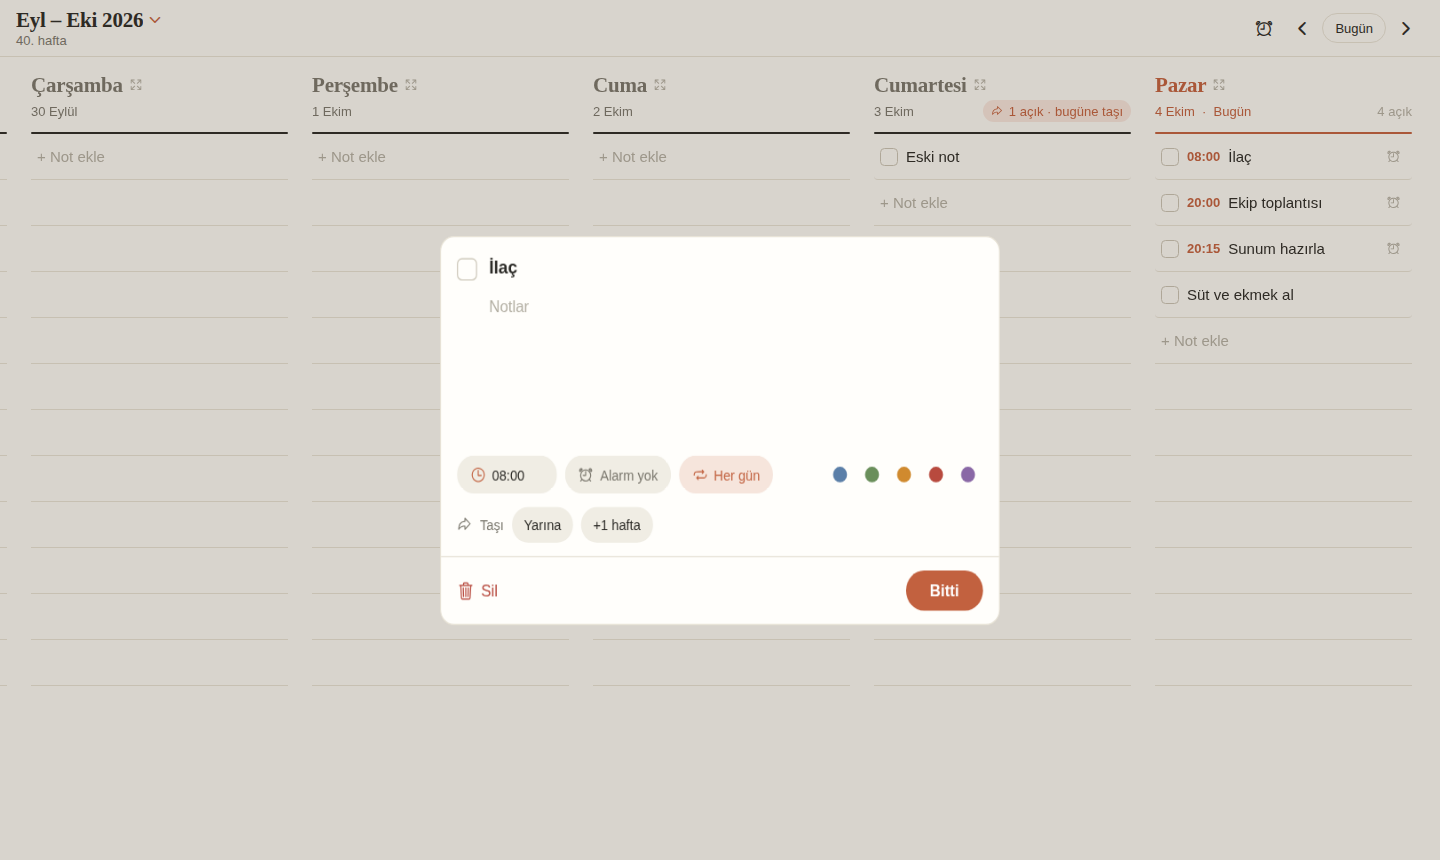
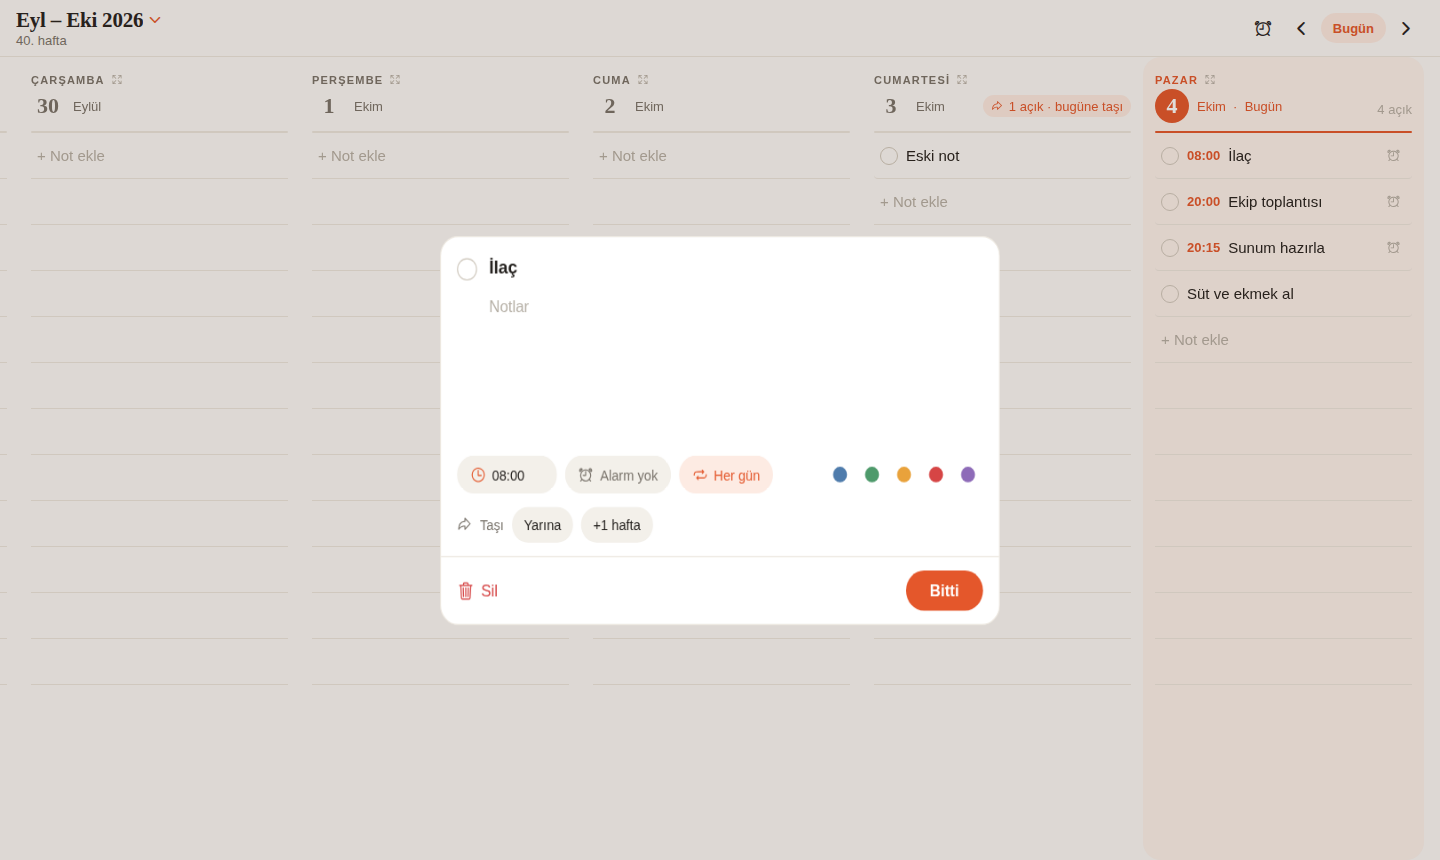
Daha şık tasarım: canlı turuncu palet, gün numaralı sütun başlığı, bugün paneli, yuvarlak kutucuk; gün çizelgesinde çizgi/saat çakışması düzeltildi
Claude-Session: https://claude.ai/code/session_01JXMiv5nUjHe3kdQpGL5PpH

diff --git a/src/components/DayColumn.tsx b/src/components/DayColumn.tsx
@@ -52,44 +52,55 @@ export default function DayColumn({
   };
 
   return (
-    <View style={[styles.column, { width }]}>
+    <View style={[styles.column, { width }, isToday && { backgroundColor: c.accentSoft + '80' }]}>
       <View style={styles.header}>
-        <Pressable
-          onPress={() => showDay(date)}
-          accessibilityRole="button"
-          accessibilityLabel={`${formatWeekday(date)} gününü aç`}
-          style={({ pressed }) => [pressed && { opacity: 0.6 }]}
-        >
-          <View style={styles.titleRow}>
-            <Text style={[Type.title, { color: isToday ? c.accent : isPast ? c.textMuted : c.text }]}>
-              {formatWeekday(date)}
-            </Text>
-            <Ionicons name="expand-outline" size={14} color={c.textFaint} />
+        <View style={styles.headRow}>
+          <Pressable
+            onPress={() => showDay(date)}
+            accessibilityRole="button"
+            accessibilityLabel={`${formatWeekday(date)} gününü aç`}
+            style={({ pressed }) => [styles.headLeft, pressed && { opacity: 0.6 }]}
+          >
+            <View style={styles.titleRow}>
+              <Text style={[Type.micro, styles.weekday, { color: isToday ? c.accent : c.textMuted }]}>
+                {formatWeekday(date).toLocaleUpperCase('tr-TR')}
+              </Text>
+              <Ionicons name="expand-outline" size={12} color={c.textFaint} />
+            </View>
+            <View style={styles.numRow}>
+              <View style={[styles.num, isToday && { backgroundColor: c.accent }]}>
+                <Text style={[Type.dayNumber, { color: isToday ? c.onAccent : isPast ? c.textMuted : c.text }]}>
+                  {d.getDate()}
+                </Text>
+              </View>
+              <Text style={[Type.caption, { color: isToday ? c.accent : c.textMuted }]}>
+                {TR_MONTHS[d.getMonth()]}
+                {isToday ? '  ·  Bugün' : ''}
+              </Text>
+            </View>
+          </Pressable>
+          <View style={styles.headRight}>
+            {isPast && open > 0 ? (
+              <Pressable
+                onPress={() => carryOver(date)}
+                hitSlop={6}
+                accessibilityRole="button"
+                accessibilityLabel={`${formatWeekday(date)} günündeki ${open} açık notu bugüne taşı`}
+                style={[styles.carry, { backgroundColor: c.accentSoft }]}
+              >
+                <Ionicons name="arrow-redo-outline" size={12} color={c.accent} />
+                <Text style={[Type.caption, { color: c.accent }]}>{open} açık · bugüne taşı</Text>
+              </Pressable>
+            ) : (
+              notes.length > 0 && (
+                <Text style={[Type.caption, { color: c.textFaint }]}>
+                  {open === 0 ? 'Hepsi bitti' : `${open} açık`}
+                </Text>
+              )
+            )}
           </View>
-        </Pressable>
-        <View style={styles.subRow}>
-          <Text style={[Type.caption, { color: isToday ? c.accent : c.textMuted }]}>
-            {d.getDate()} {TR_MONTHS[d.getMonth()]}
-            {isToday ? '  ·  Bugün' : ''}
-          </Text>
-          {isPast && open > 0 ? (
-            <Pressable
-              onPress={() => carryOver(date)}
-              hitSlop={6}
-              accessibilityRole="button"
-              accessibilityLabel={`${formatWeekday(date)} günündeki ${open} açık notu bugüne taşı`}
-              style={[styles.carry, { backgroundColor: c.accentSoft }]}
-            >
-              <Ionicons name="arrow-redo-outline" size={12} color={c.accent} />
-              <Text style={[Type.caption, { color: c.accent }]}>{open} açık · bugüne taşı</Text>
-            </Pressable>
-          ) : (
-            notes.length > 0 && (
-              <Text style={[Type.caption, { color: c.textFaint }]}>{open === 0 ? 'Hepsi bitti' : `${open} açık`}</Text>
-            )
-          )}
         </View>
-        <View style={[styles.headerRule, { backgroundColor: isToday ? c.accent : c.text }]} />
+        <View style={[styles.headerRule, { backgroundColor: isToday ? c.accent : c.separator }]} />
       </View>
 
       <ScrollView style={styles.flex} keyboardShouldPersistTaps="handled" showsVerticalScrollIndicator={false}>
@@ -189,8 +200,21 @@ export function TaskLine({ note, onOpen }: { note: EntryWithDate; onOpen: (alarm
 
 const styles = StyleSheet.create({
   flex: { flex: 1 },
-  column: { flex: 1, paddingHorizontal: Space.md },
-  header: { paddingTop: Space.lg, gap: 2 },
+  column: { flex: 1, paddingHorizontal: Space.md, borderRadius: Radius.lg },
+  header: { paddingTop: Space.md },
+  headRow: { flexDirection: 'row', alignItems: 'flex-end', justifyContent: 'space-between', minHeight: 54 },
+  headLeft: { gap: 2 },
+  headRight: { paddingBottom: 6 },
+  weekday: { letterSpacing: 1.2 },
+  numRow: { flexDirection: 'row', alignItems: 'center', gap: Space.sm },
+  num: {
+    minWidth: 34,
+    height: 34,
+    borderRadius: 17,
+    paddingHorizontal: 6,
+    alignItems: 'center',
+    justifyContent: 'center',
+  },
   titleRow: { flexDirection: 'row', alignItems: 'center', gap: 6 },
   carry: {
     flexDirection: 'row',
@@ -200,7 +224,6 @@ const styles = StyleSheet.create({
     height: 22,
     borderRadius: Radius.pill,
   },
-  subRow: { flexDirection: 'row', justifyContent: 'space-between', alignItems: 'center', minHeight: 22 },
   headerRule: { height: 2, marginTop: Space.sm, borderRadius: 1 },
   line: {
     height: LINE_HEIGHT,

diff --git a/src/constants/theme.ts b/src/constants/theme.ts
@@ -26,51 +26,51 @@ export interface Palette {
 
 export const LightPalette: Palette = {
   scheme: 'light',
-  bg: '#FAF9F5',
-  sidebar: '#F0EEE6',
-  card: '#FFFEFB',
-  fill: '#F0EDE4',
-  text: '#2B2A26',
-  textMuted: '#7A776D',
-  textFaint: '#B3AFA3',
-  separator: '#E6E1D4',
-  accent: '#C2613F',
-  accentSoft: '#F6E5DC',
+  bg: '#FCFBF9',
+  sidebar: '#F4F1EC',
+  card: '#FFFFFF',
+  fill: '#F3F0EA',
+  text: '#24211E',
+  textMuted: '#79736B',
+  textFaint: '#B6B0A6',
+  separator: '#ECE7DF',
+  accent: '#E4572B',
+  accentSoft: '#FDEBE3',
   onAccent: '#FFFFFF',
-  today: '#C2613F',
-  star: '#D9A441',
-  check: '#C9C3B4',
-  danger: '#B84A3E',
-  shadow: 'rgba(60, 45, 30, 0.18)',
+  today: '#E4572B',
+  star: '#E9A23B',
+  check: '#CFC8BD',
+  danger: '#D64545',
+  shadow: 'rgba(60, 40, 20, 0.16)',
 };
 
 export const DarkPalette: Palette = {
   scheme: 'dark',
-  bg: '#262624',
-  sidebar: '#1F1E1D',
-  card: '#30302E',
-  fill: '#3A3936',
-  text: '#ECEAE3',
-  textMuted: '#A6A39A',
-  textFaint: '#6B6964',
-  separator: '#3C3B37',
-  accent: '#D97757',
-  accentSoft: '#4A3128',
-  onAccent: '#FFFFFF',
-  today: '#E88A6B',
-  star: '#E0B25A',
-  check: '#66635C',
-  danger: '#E07A6B',
-  shadow: 'rgba(0, 0, 0, 0.55)',
+  bg: '#1C1B1A',
+  sidebar: '#161514',
+  card: '#272624',
+  fill: '#302E2C',
+  text: '#F2EFEA',
+  textMuted: '#A8A299',
+  textFaint: '#6E6A63',
+  separator: '#33312E',
+  accent: '#FF7A45',
+  accentSoft: '#43271B',
+  onAccent: '#1C1B1A',
+  today: '#FF7A45',
+  star: '#F0B552',
+  check: '#6B665E',
+  danger: '#F0746B',
+  shadow: 'rgba(0, 0, 0, 0.6)',
 };
 
 /** Not etiket renkleri; veri tabanında anahtar saklanır (ör. "green") */
 export const NoteTags = {
-  blue: { light: '#5B7FA8', dark: '#7F9FC4', label: 'Mavi' },
-  green: { light: '#6A8F5B', dark: '#8DB07C', label: 'Yeşil' },
-  orange: { light: '#D08A2E', dark: '#E0A453', label: 'Turuncu' },
-  red: { light: '#B84A3E', dark: '#E07A6B', label: 'Kırmızı' },
-  purple: { light: '#8A68A6', dark: '#AE8FC7', label: 'Mor' },
+  blue: { light: '#4F7CAC', dark: '#7FA6D4', label: 'Mavi' },
+  green: { light: '#4E9A6B', dark: '#74C28F', label: 'Yeşil' },
+  orange: { light: '#E9A23B', dark: '#F0B552', label: 'Turuncu' },
+  red: { light: '#D64545', dark: '#F0746B', label: 'Kırmızı' },
+  purple: { light: '#8E6BB8', dark: '#B292D6', label: 'Mor' },
 } as const;
 
 export type NoteTag = keyof typeof NoteTags;
@@ -96,6 +96,8 @@ const serif = Platform.select({
 export const Type = {
   largeTitle: { fontFamily: serif, fontSize: 32, fontWeight: '600', letterSpacing: -0.4 },
   title: { fontFamily: serif, fontSize: 21, fontWeight: '600', letterSpacing: -0.2 },
+  /** Gün sütunundaki büyük gün numarası */
+  dayNumber: { fontFamily: serif, fontSize: 22, fontWeight: '600' },
   body: { fontFamily: family, fontSize: 17, fontWeight: '400', lineHeight: 22 },
   bodyBold: { fontFamily: family, fontSize: 17, fontWeight: '600' },
   sub: { fontFamily: family, fontSize: 15, fontWeight: '400', lineHeight: 20 },
@@ -103,7 +105,7 @@ export const Type = {
   micro: { fontFamily: family, fontSize: 11, fontWeight: '600', letterSpacing: 0.3 },
 } as const satisfies Record<string, TextStyle>;
 
-export const Radius = { sm: 6, md: 10, lg: 14, pill: 999 } as const;
+export const Radius = { sm: 6, md: 12, lg: 18, pill: 999 } as const;
 export const Space = { xs: 4, sm: 8, md: 12, lg: 16, xl: 24, xxl: 32 } as const;
 
 /** Tabletlerde kenar çubuğu (takvim) ve içerik yan yana dizilir */

diff --git a/src/components/DayView.tsx b/src/components/DayView.tsx
@@ -162,11 +162,13 @@ export default function DayView({
                 accessibilityLabel={`${pad(h)}:00 saatine not ekle`}
                 style={({ pressed }) => [
                   styles.hourRow,
-                  { top: (h - start) * HOUR_HEIGHT, height: h === end ? 28 : HOUR_HEIGHT, borderTopColor: c.separator },
+                  { top: (h - start) * HOUR_HEIGHT, height: h === end ? 28 : HOUR_HEIGHT },
                   pressed && { backgroundColor: c.fill },
                 ]}
               >
                 <Text style={[Type.micro, styles.hourLabel, { color: c.textFaint }]}>{pad(h)}:00</Text>
+                {/* Çizgi saat yazısının sağından başlar; yazının üstünden geçmez */}
+                <View style={[styles.hourLine, { backgroundColor: c.separator }]} />
               </Pressable>
             ))}
 
@@ -288,8 +290,9 @@ const styles = StyleSheet.create({
     borderBottomWidth: StyleSheet.hairlineWidth,
   },
   input: { flex: 1, height: 46, paddingHorizontal: 6 },
-  hourRow: { position: 'absolute', left: 0, right: 0, borderTopWidth: StyleSheet.hairlineWidth },
-  hourLabel: { width: LABEL_W, marginTop: -7, fontVariant: ['tabular-nums'] },
+  hourRow: { position: 'absolute', left: 0, right: 0, borderRadius: Radius.sm },
+  hourLabel: { position: 'absolute', left: 0, top: -6, width: LABEL_W - 10, fontVariant: ['tabular-nums'] },
+  hourLine: { position: 'absolute', top: 0, left: LABEL_W, right: 0, height: StyleSheet.hairlineWidth },
   blocks: { position: 'absolute', top: 0, bottom: 0, left: LABEL_W, right: 0 },
   blockSlot: { position: 'absolute', paddingRight: 4, paddingTop: 2 },
   block: {
@@ -299,7 +302,7 @@ const styles = StyleSheet.create({
     gap: Space.sm,
     paddingHorizontal: Space.sm,
     borderRadius: Radius.md,
-    borderLeftWidth: 3,
+    borderLeftWidth: 4,
   },
   blockText: { flex: 1, minWidth: 0 },
   struck: { textDecorationLine: 'line-through' },

diff --git a/src/components/WeekHeader.tsx b/src/components/WeekHeader.tsx
@@ -76,13 +76,9 @@ export default function WeekHeader({
           <Pressable
             onPress={() => selectDate(today)}
             accessibilityRole="button"
-            style={({ pressed }) => [
-              styles.todayBtn,
-              { borderColor: c.separator },
-              pressed && { backgroundColor: c.fill },
-            ]}
+            style={({ pressed }) => [styles.todayBtn, { backgroundColor: c.accentSoft }, pressed && { opacity: 0.7 }]}
           >
-            <Text style={[Type.caption, { color: c.text }]}>Bugün</Text>
+            <Text style={[Type.caption, { color: c.accent, fontWeight: '700' }]}>Bugün</Text>
           </Pressable>
           <IconBtn
             icon="chevron-forward"
@@ -110,12 +106,12 @@ export default function WeekHeader({
                 <Text style={[Type.micro, { color: c.textFaint }]}>
                   {TR_WEEKDAYS_SHORT[i].toLocaleUpperCase('tr-TR')}
                 </Text>
-                <View style={[styles.stripNum, selected && { backgroundColor: isToday ? c.today : c.text }]}>
+                <View style={[styles.stripNum, selected && { backgroundColor: c.accent }]}>
                   <Text
                     style={[
                       Type.bodyBold,
                       {
-                        color: selected ? c.bg : isToday ? c.today : c.text,
+                        color: selected ? c.onAccent : isToday ? c.accent : c.text,
                         fontWeight: selected || isToday ? '700' : '500',
                       },
                     ]}
@@ -196,7 +192,6 @@ const styles = StyleSheet.create({
     paddingHorizontal: Space.md,
     height: 30,
     borderRadius: Radius.pill,
-    borderWidth: 1,
     justifyContent: 'center',
   },
   strip: { flexDirection: 'row', paddingHorizontal: Space.sm, paddingBottom: Space.sm },

diff --git a/src/components/Checkbox.tsx b/src/components/Checkbox.tsx
@@ -1,4 +1,4 @@
-// Not kutucuğu (Things tarzı yuvarlatılmış kare). Etiket rengi verilirse işaretliyken o renge boyanır.
+// Not kutucuğu (yuvarlak). Etiket rengi verilirse işaretliyken o renge boyanır.
 
 import Ionicons from '@expo/vector-icons/Ionicons';
 import { useEffect, useRef } from 'react';
@@ -51,7 +51,7 @@ export default function Checkbox({
         accessibilityState={{ checked }}
         style={[
           styles.box,
-          { width: size, height: size, borderRadius: size / 4 },
+          { width: size, height: size, borderRadius: size / 2 },
           { borderColor: checked ? color : c.check },
           checked && { backgroundColor: color },
         ]}

diff --git a/CLAUDE.md b/CLAUDE.md
@@ -2,7 +2,7 @@
 
 Haftalık planlayıcı: her gün çizgili satırlı bir sütun; boş satıra dokun, yaz, Enter. Düzen
 [WeekToDo](https://github.com/manuelernestog/weektodo)'dan esinlenir (GPL-3.0; kodu kopyalanmaz, yalnızca düzen).
-Renkler sıcak "kağıt" dilinde (kullanıcı Claude arayüzünün sıcaklığını istedi): fildişi zemin, kil vurgu, serif başlıklar.
+Renkler sıcak "kağıt" dilinde (kullanıcı Claude arayüzünün sıcaklığını istedi): sıcak beyaz zemin, canlı turuncu vurgu (#E4572B), serif başlıklar, yuvarlak kutucuklar, bugünün sütunu yumuşak turuncu panelde.
 Expo SDK 57 + React Native + TypeScript. Expo Go'da çalışır.
 
 > 2026-10-04: Kullanıcı ilk "fiziksel defter" tasarımını (deri kapak, Skia kağıt, el yazısı, sayfa kıvırma,

diff --git a/README.md b/README.md
@@ -4,7 +4,7 @@ Haftalık planlayıcı: haftanın her günü, çizgili bir defter sayfası gibi 
 dokun, yaz, Enter'a bas; not o güne eklenir. Tasarım, GitHub'daki
 [weekly-planner](https://github.com/topics/weekly-planner) konusunun en popüler projesi
 [WeekToDo](https://github.com/manuelernestog/weektodo)'dan esinlenir (kodu kopyalanmadı, yalnızca düzen örnek alındı).
-Renkler sıcak bir kağıt havasında: fildişi zemin, kil rengi vurgu, tırnaklı başlıklar.
+Renkler sıcak bir kağıt havasında: sıcak beyaz zemin, canlı turuncu vurgu, tırnaklı başlıklar, bugünün sütunu yumuşak panelde.
 
 | Hafta | Gün (saat çizelgesi) | Telefon, gün | Tekrar ve taşı | Alarmlar | Koyu tema |
 |---|---|---|---|---|---|
